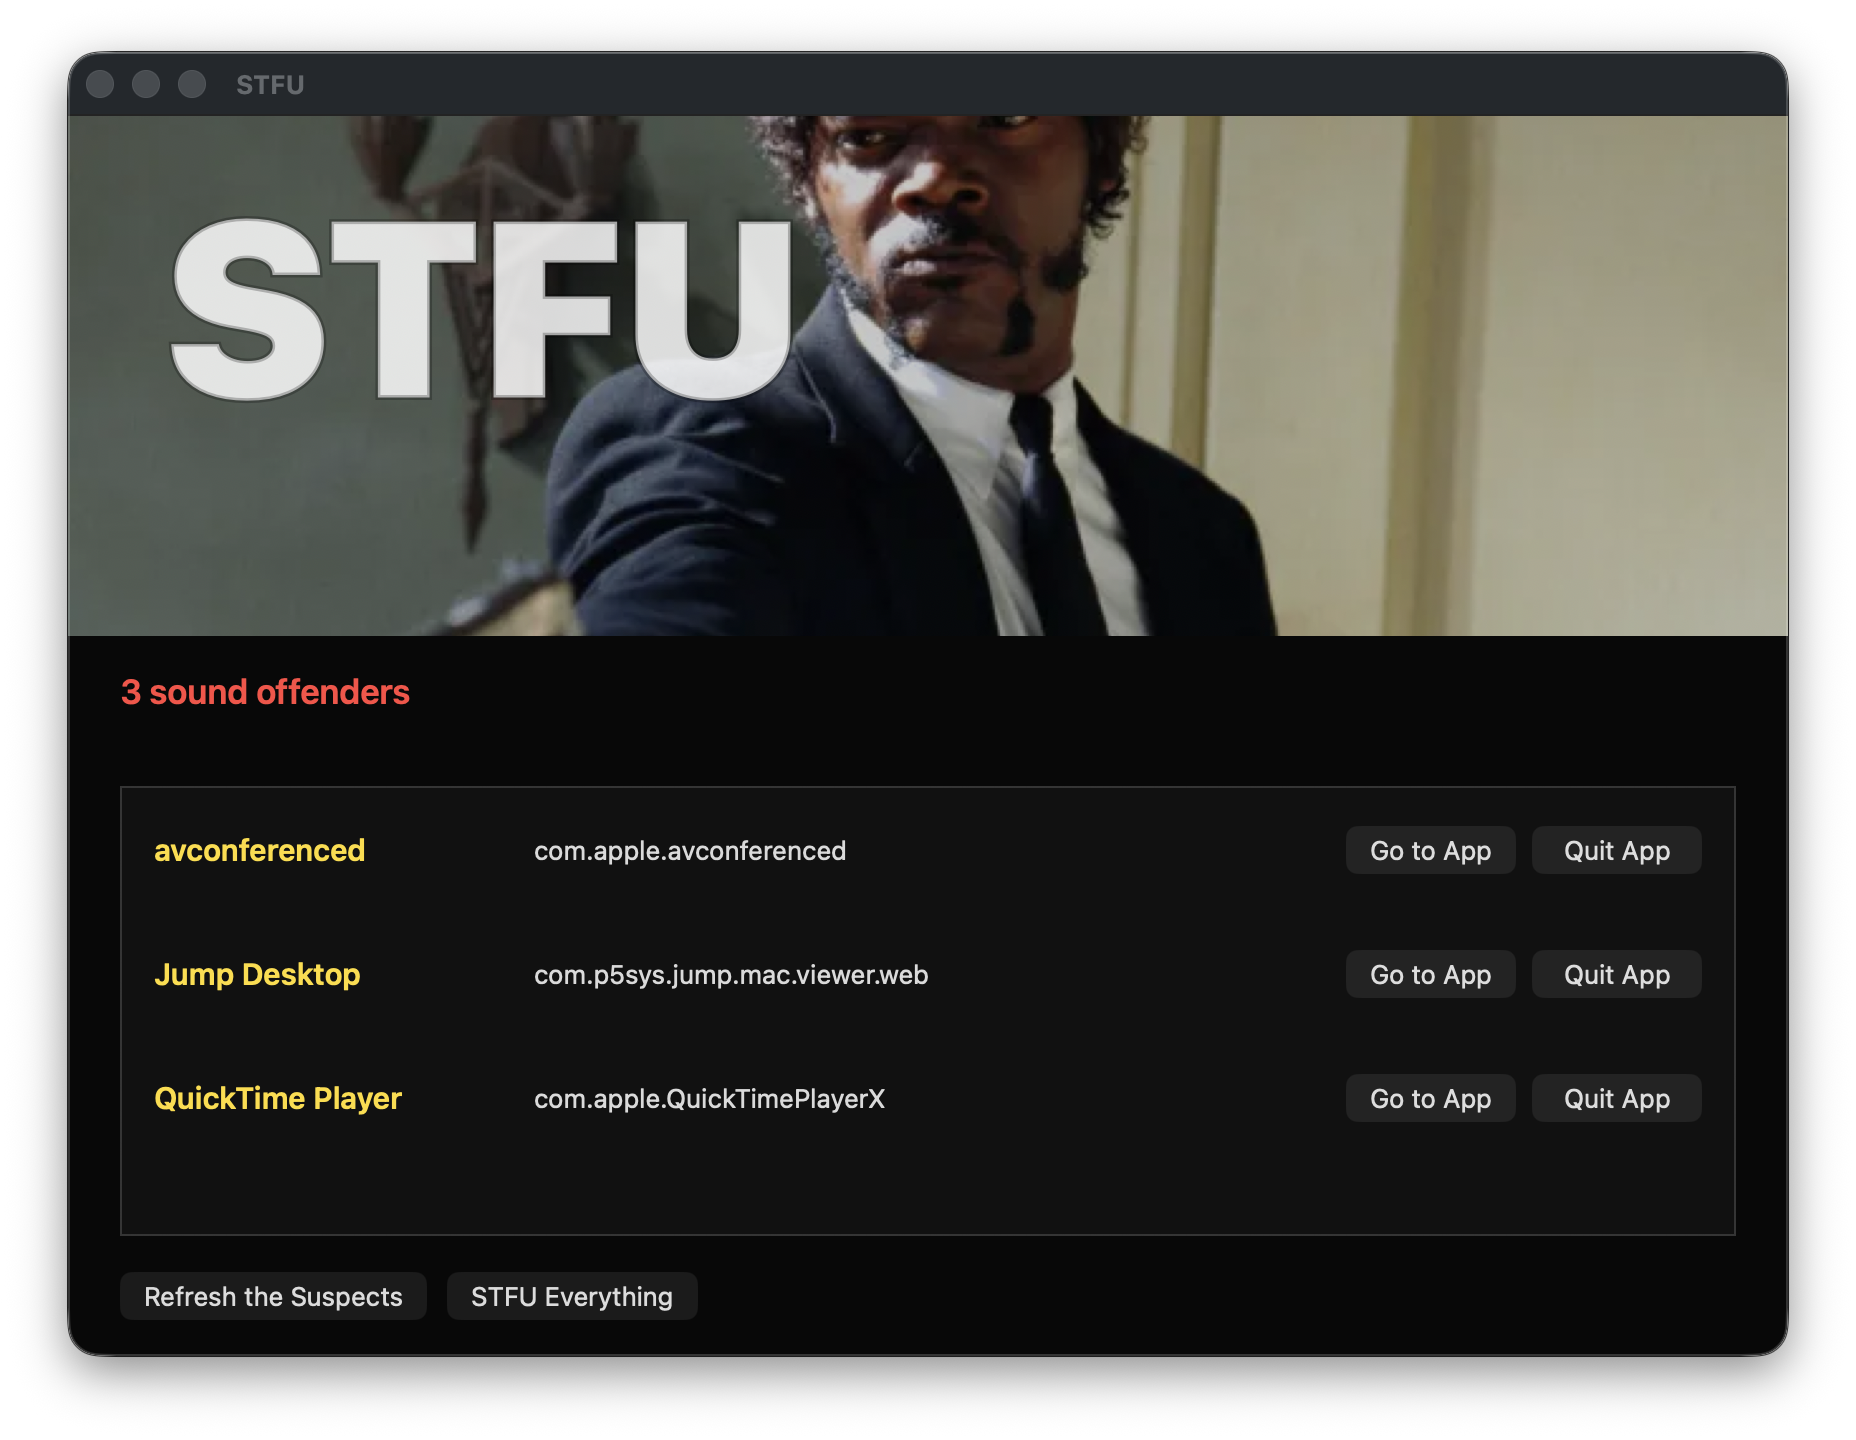
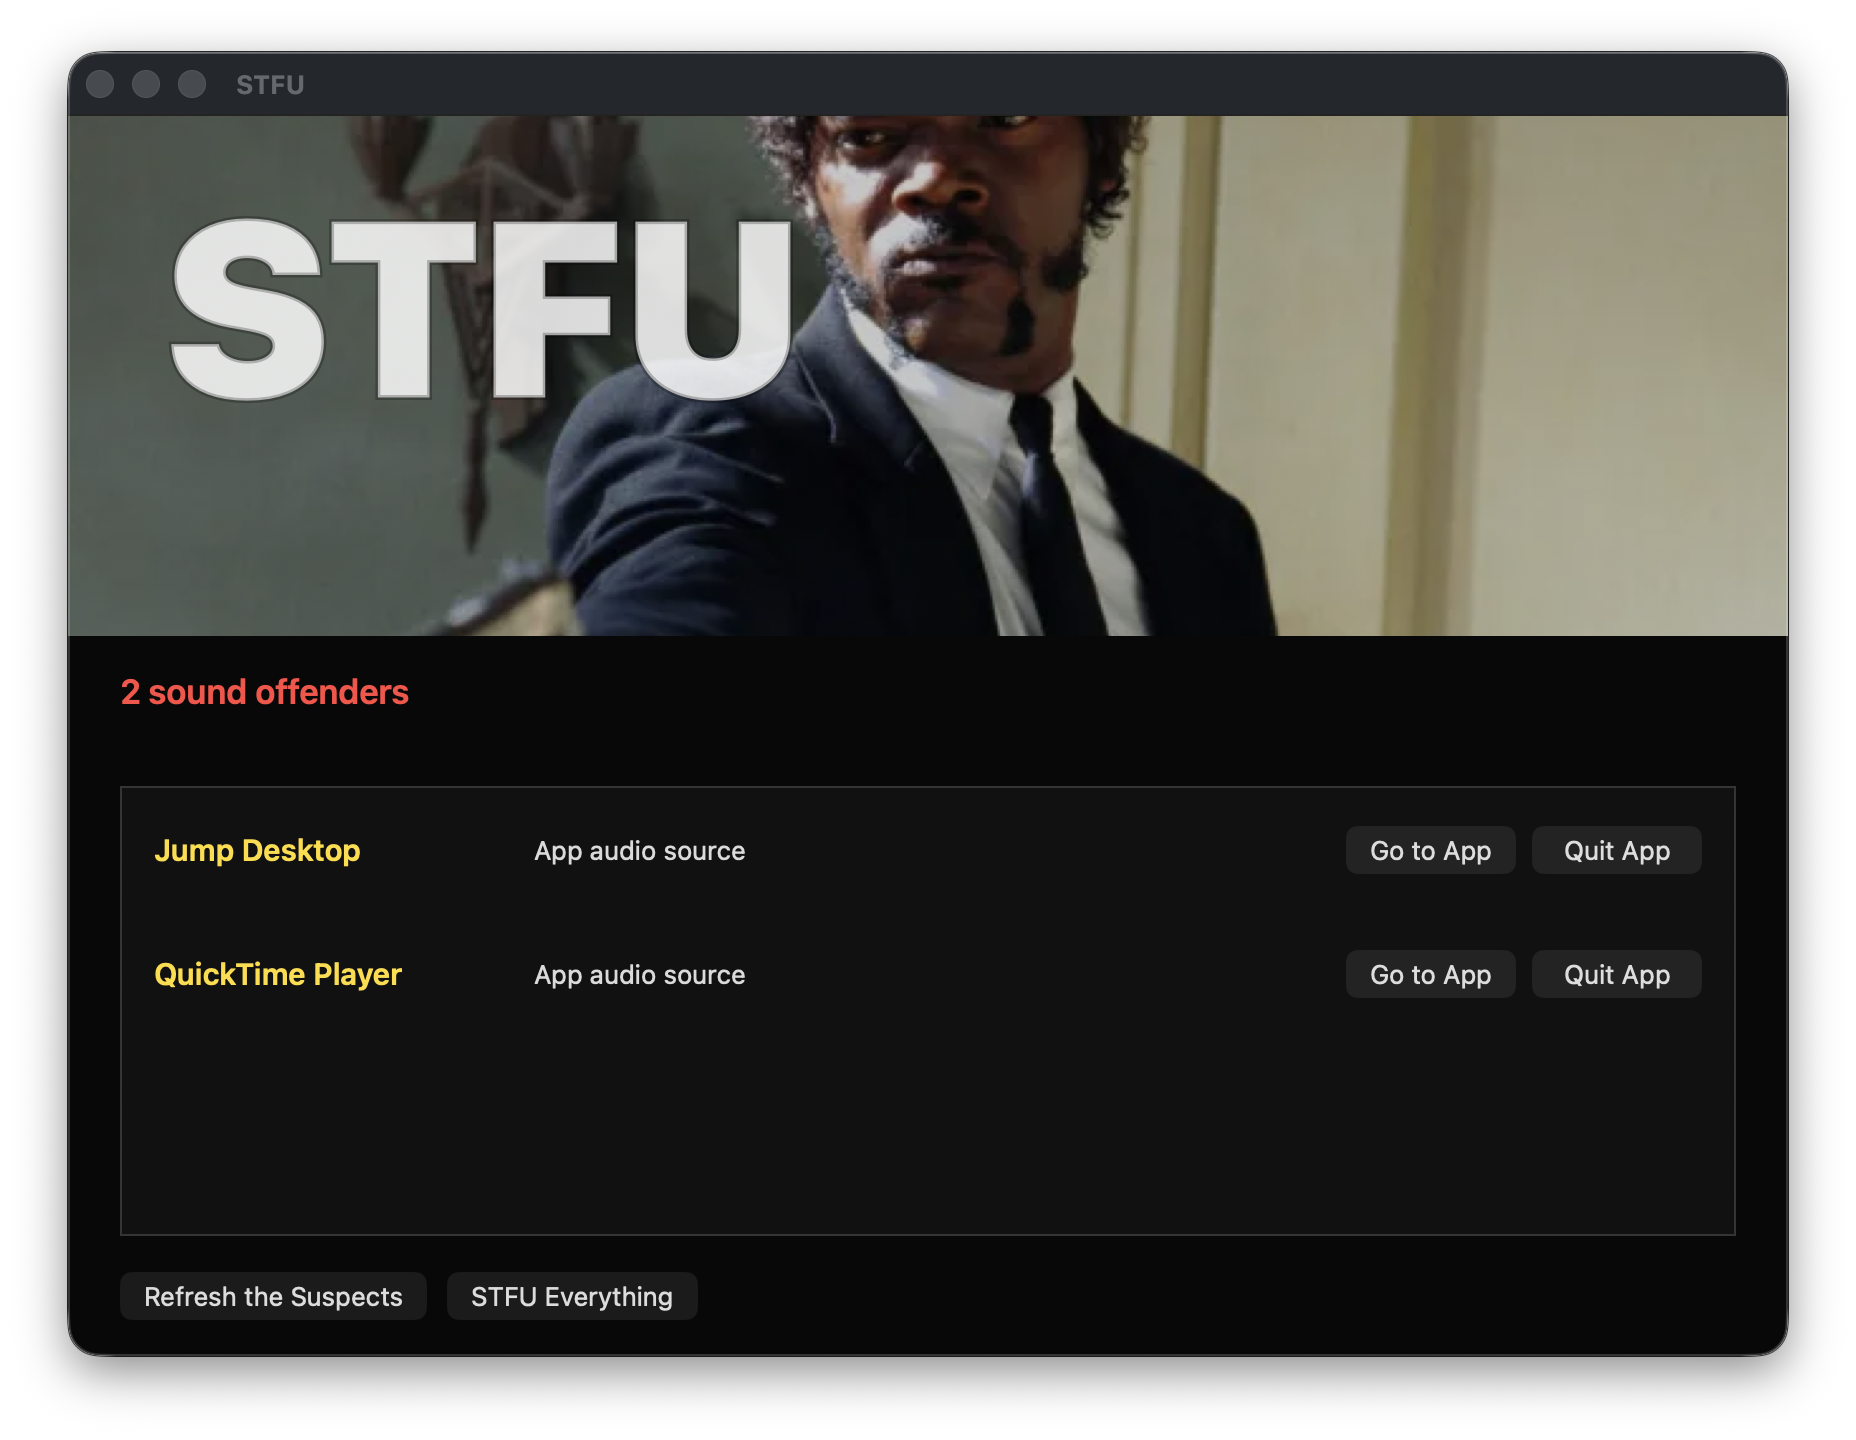
Polish user-facing app presentation

diff --git a/Sources/stfu/main.swift b/Sources/stfu/main.swift
@@ -1052,7 +1052,7 @@ func soundOffenders() -> [SoundOffender] {
 
         offenders.append(SoundOffender(
             name: process.name,
-            detail: "\(process.bundleID ?? "pid \(process.pid)")",
+            detail: "App audio source",
             kind: .app(process)
         ))
     }
